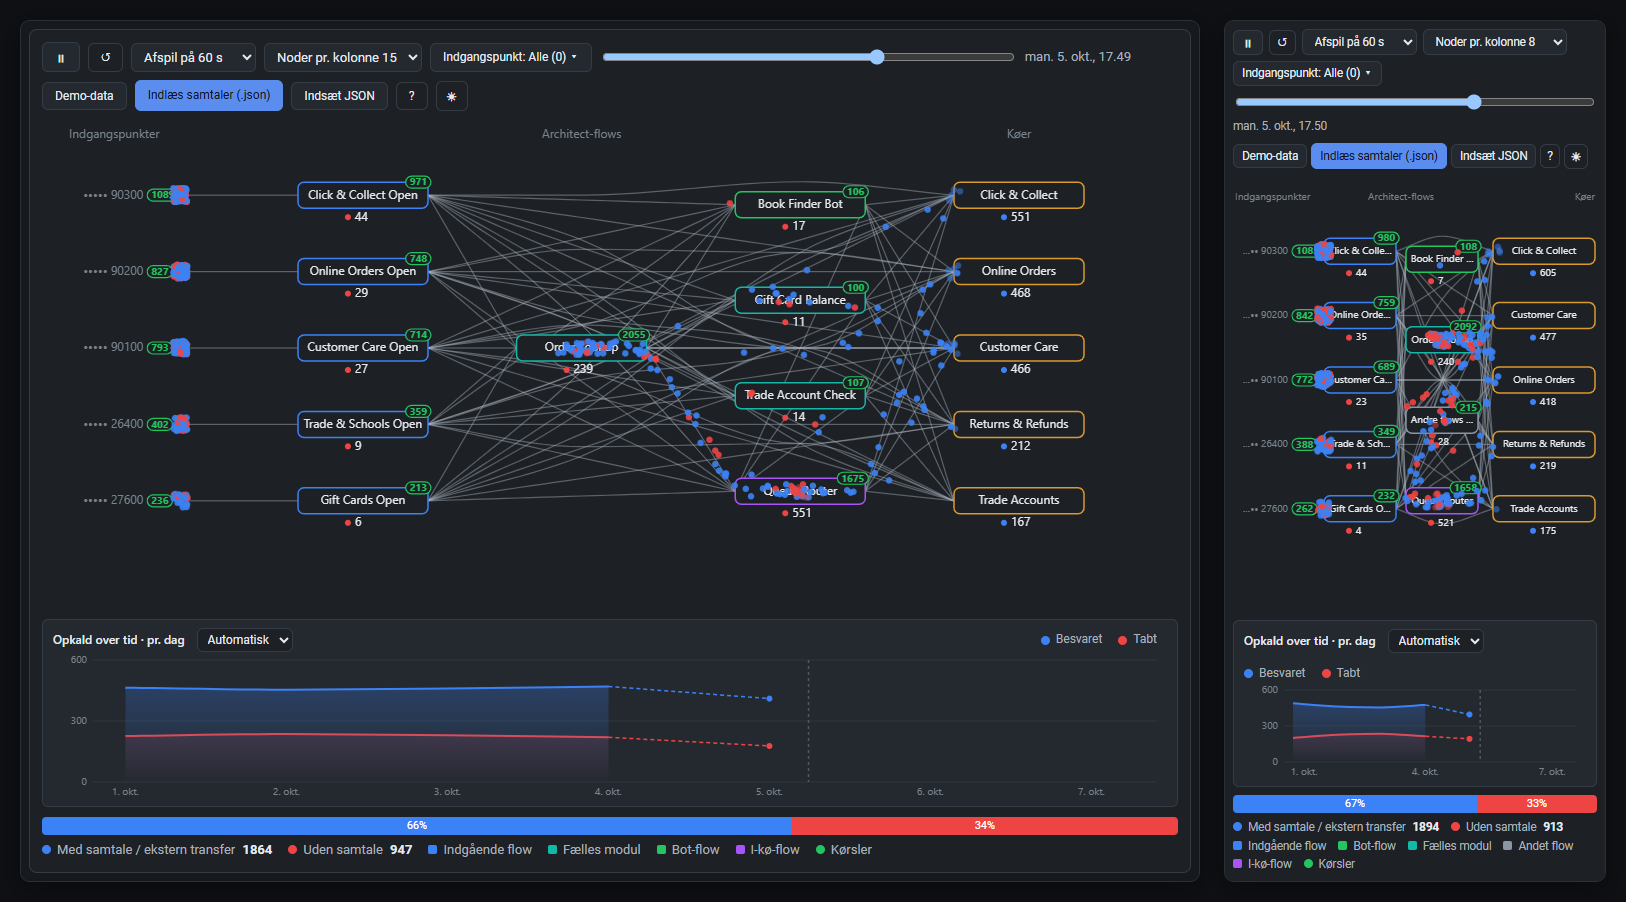
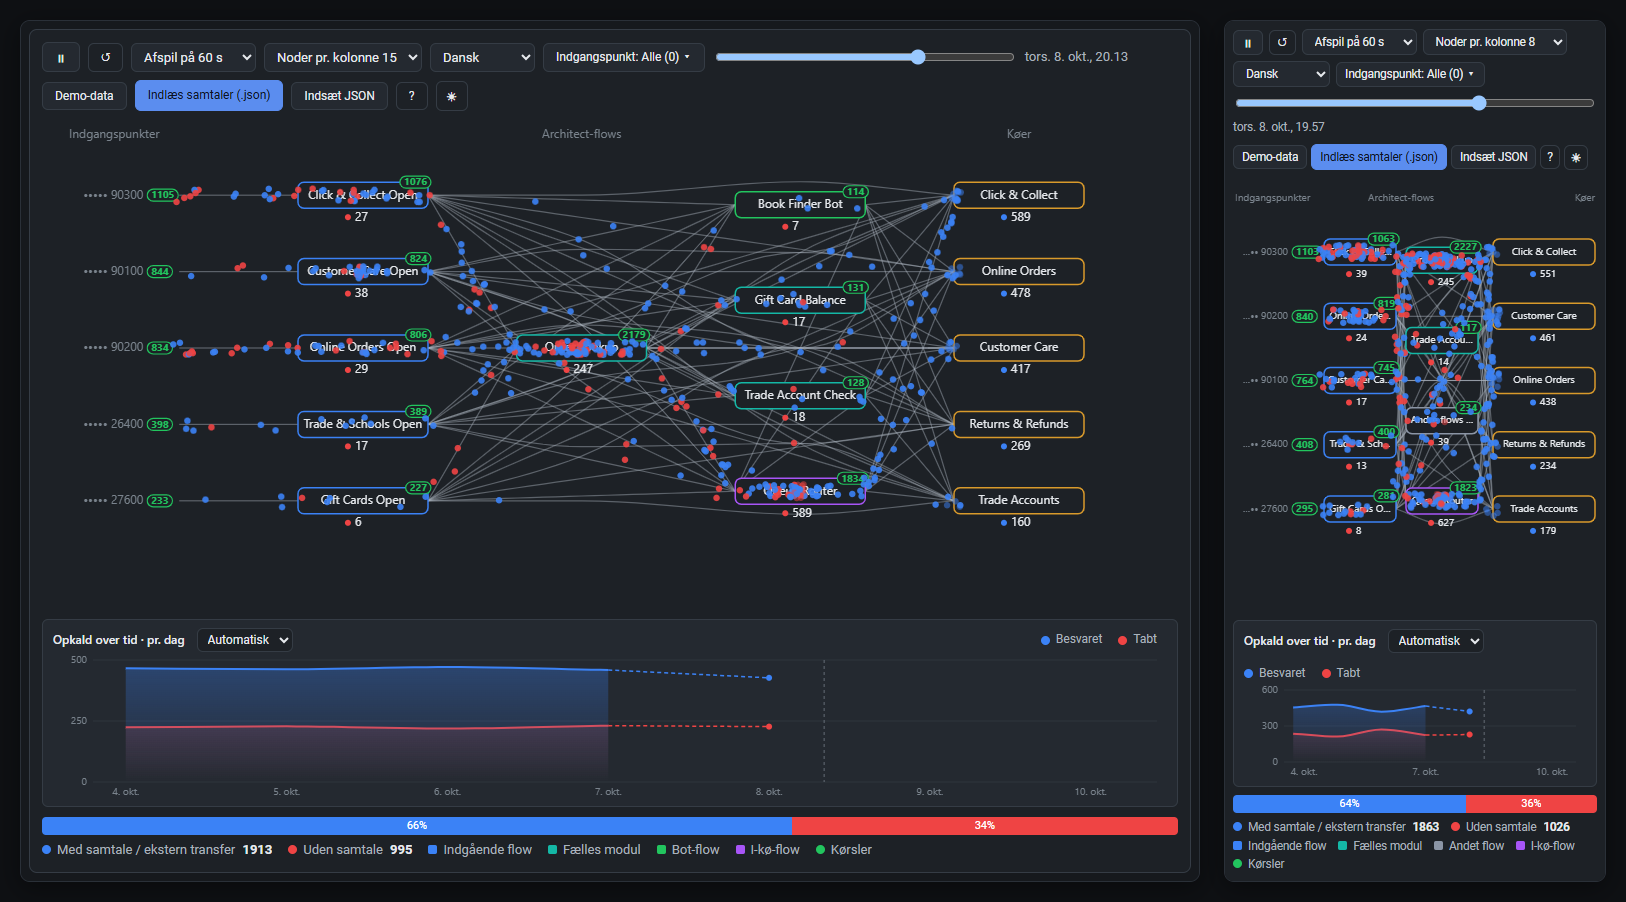
Language picker in the toolbar; live data when run locally
- Language picker (da/en/fr/es/nl) relabels in place and is remembered per browser
- Setup page has a form for client ID and region, plus a link to demo data
- npm start prints the demo URL, the live URL (CLIENT_ID/REGION) and the redirect URI
- Entry point button now follows a language switch
- README: local live data, screenshots with the language picker

diff --git a/js/i18n.js b/js/i18n.js
@@ -83,6 +83,7 @@ export const I18N = {
   "trafficHelpTitle": "Sådan henter du data fra Genesys",
   "trafficThemeDark": "Skift til mørkt tema",
   "trafficThemeLight": "Skift til lyst tema",
+  "trafficLang": "Sprog",
   "trafficHelpBody": "<h4>Sådan henter du samtaledata fra Genesys Cloud</h4>\nBrug API'et <b>Analytics &rarr; Conversation details (async job)</b>. Nemmest er <a href=\"https://developer.genesys.cloud/devapps/api-explorer#post-api-v2-analytics-conversations-details-jobs\" target=\"_blank\" rel=\"noopener\">API Explorer</a> på <a href=\"https://developer.genesys.cloud/\" target=\"_blank\" rel=\"noopener\">developer.genesys.cloud</a> (log ind og vælg din region). Kræver rettigheden <code>analytics:conversationDetail:view</code>.\n<ol>\n<li><code>POST /api/v2/analytics/conversations/details/jobs</code> med en body som:\n<pre>{\n  \"interval\": \"2026-10-01T00:00:00.000Z/2026-10-08T00:00:00.000Z\",\n  \"segmentFilters\": [{ \"type\": \"and\", \"predicates\": [\n    { \"type\": \"dimension\", \"dimension\": \"mediaType\", \"value\": \"voice\" },\n    { \"type\": \"dimension\", \"dimension\": \"originatingDirection\", \"value\": \"inbound\" } ] }]\n}</pre>Intervallet må højst være 31 dage. Kun indgående voice-opkald tages med. Svaret indeholder et <code>jobId</code>.</li>\n<li><code>GET /api/v2/analytics/conversations/details/jobs/{jobId}</code> indtil <code>state</code> er <code>FULFILLED</code>.</li>\n<li><code>GET /api/v2/analytics/conversations/details/jobs/{jobId}/results?pageSize=1000</code> &mdash; gentag med <code>&amp;cursor=&hellip;</code>, så længe der returneres en cursor.</li>\n<li>Kopiér svaret fra API Explorer: gem det som en <code>.json</code>-fil og indlæs den med <b>Indlæs samtaler</b>, eller brug <b>Indsæt JSON</b>. Har du flere sider, behøver du ikke samle dem selv: vælg eller slip alle filerne på én gang, eller indsæt dem én ad gangen med <b>Tilføj side</b>. Dubletter fjernes automatisk.</li>\n</ol>\nTip: <b>Hent live</b> gør alt dette automatisk, når du har logget ind med Genesys (OAuth PKCE).",
   "trafficNoConvs": "Ingen afsluttede samtaler i perioden (Genesys har nogle minutters forsinkelse på nylige samtaler)",
   "trafficP_hour": "Seneste time",
@@ -193,6 +194,7 @@ export const I18N = {
   "trafficHelpTitle": "How to get data from Genesys",
   "trafficThemeDark": "Switch to dark theme",
   "trafficThemeLight": "Switch to light theme",
+  "trafficLang": "Language",
   "trafficHelpBody": "<h4>How to get conversation data from Genesys Cloud</h4>\nUse the <b>Analytics &rarr; Conversation details (async job)</b> API. Easiest is the <a href=\"https://developer.genesys.cloud/devapps/api-explorer#post-api-v2-analytics-conversations-details-jobs\" target=\"_blank\" rel=\"noopener\">API Explorer</a> on <a href=\"https://developer.genesys.cloud/\" target=\"_blank\" rel=\"noopener\">developer.genesys.cloud</a> (sign in, pick your region). Requires the permission <code>analytics:conversationDetail:view</code>.\n<ol>\n<li><code>POST /api/v2/analytics/conversations/details/jobs</code> with a body like:\n<pre>{\n  \"interval\": \"2026-10-01T00:00:00.000Z/2026-10-08T00:00:00.000Z\",\n  \"segmentFilters\": [{ \"type\": \"and\", \"predicates\": [\n    { \"type\": \"dimension\", \"dimension\": \"mediaType\", \"value\": \"voice\" },\n    { \"type\": \"dimension\", \"dimension\": \"originatingDirection\", \"value\": \"inbound\" } ] }]\n}</pre>The interval can be at most 31 days. Only inbound voice calls are included. The response contains a <code>jobId</code>.</li>\n<li><code>GET /api/v2/analytics/conversations/details/jobs/{jobId}</code> until <code>state</code> is <code>FULFILLED</code>.</li>\n<li><code>GET /api/v2/analytics/conversations/details/jobs/{jobId}/results?pageSize=1000</code> &mdash; repeat with <code>&amp;cursor=&hellip;</code> while a cursor is returned.</li>\n<li>Copy the response from API Explorer: either save it as a <code>.json</code> file and load it with <b>Load calls</b>, or use <b>Paste JSON</b>. With several pages you do not need to merge anything yourself: select or drop all the files at once, or paste them one by one with <b>Add page</b>. Duplicates are removed automatically.</li>\n</ol>\nTip: <b>Live data</b> does all of this automatically after signing in with Genesys (OAuth PKCE).",
   "trafficNoConvs": "No completed conversations in the period (Genesys lags a few minutes on recent conversations)",
   "trafficP_hour": "Last hour",
@@ -303,6 +305,7 @@ export const I18N = {
   "trafficHelpTitle": "Comment obtenir les données de Genesys",
   "trafficThemeDark": "Passer au thème sombre",
   "trafficThemeLight": "Passer au thème clair",
+  "trafficLang": "Langue",
   "trafficNoConvs": "Aucune conversation terminée sur la période (Genesys a quelques minutes de retard)",
   "trafficP_hour": "Dernière heure",
   "trafficP_yesterday": "Hier",
@@ -412,6 +415,7 @@ export const I18N = {
   "trafficHelpTitle": "Cómo obtener datos de Genesys",
   "trafficThemeDark": "Cambiar al tema oscuro",
   "trafficThemeLight": "Cambiar al tema claro",
+  "trafficLang": "Idioma",
   "trafficNoConvs": "No hay conversaciones finalizadas en el periodo (Genesys tiene unos minutos de retraso)",
   "trafficP_hour": "Última hora",
   "trafficP_yesterday": "Ayer",
@@ -521,6 +525,7 @@ export const I18N = {
   "trafficHelpTitle": "Gegevens ophalen uit Genesys",
   "trafficThemeDark": "Overschakelen naar donker thema",
   "trafficThemeLight": "Overschakelen naar licht thema",
+  "trafficLang": "Taal",
   "trafficNoConvs": "Geen afgeronde gesprekken in de periode (Genesys loopt enkele minuten achter)",
   "trafficP_hour": "Laatste uur",
   "trafficP_yesterday": "Gisteren",

diff --git a/js/main.js b/js/main.js
@@ -12,6 +12,10 @@ const W = {
     setupMissing: 'Mangler',
     setupRedirect: 'OAuth-klienten (Code Authorization / PKCE) skal have denne redirect URI:',
     setupPerms: 'Brugeren skal have rettighederne <code>analytics:conversationDetail:view</code> og <code>routing:queue:view</code>.',
+    setupTry: 'Eller åbn den direkte her (fx lokalt med npm start):',
+    setupRegion: 'Region',
+    setupOpen: 'Åbn med live data',
+    setupDemo: 'Vis demo-data',
     retry: 'Prøv igen',
   },
   en: {
@@ -21,21 +25,34 @@ const W = {
     setupMissing: 'Missing',
     setupRedirect: 'The OAuth client (Code Authorization / PKCE) needs this redirect URI:',
     setupPerms: 'Users need the permissions <code>analytics:conversationDetail:view</code> and <code>routing:queue:view</code>.',
+    setupTry: 'Or open it directly here (e.g. locally with npm start):',
+    setupRegion: 'Region',
+    setupOpen: 'Open with live data',
+    setupDemo: 'Show demo data',
     retry: 'Try again',
   },
 };
 
 const ctx = gc.readContext();
-const lang = (() => { const l = (ctx.lang || navigator.language || 'en').slice(0, 2).toLowerCase(); return I18N[l] ? l : 'en'; })();
+const store = { get: k => { try { return localStorage.getItem(k); } catch { return null; } },
+                set: (k, v) => { try { localStorage.setItem(k, v); } catch { /* ignore */ } } };
+
+// The language picked in the toolbar wins, then gcLangTag / ?lang, then the browser language.
+const LANGS = Object.keys(I18N);
+let lang = [store.get('tw-lang'), ctx.lang, navigator.language, 'en'].map(l => (l || '').slice(0, 2).toLowerCase()).find(l => I18N[l]);
 const t = key => W[lang]?.[key] ?? I18N[lang]?.[key] ?? W.en[key] ?? I18N.en[key] ?? key;
+const setLang = l => { lang = l; document.documentElement.lang = l; store.set('tw-lang', l); };
+const langOpts = () => ({ langs: LANGS, lang, onLang: setLang });
 
 document.documentElement.lang = lang;
 // The theme picked with the toolbar button wins, then ?theme, then the OS setting.
-const savedTheme = (() => { try { return localStorage.getItem('tw-theme'); } catch { return null; } })();
-const theme = [savedTheme, ctx.theme].find(v => v === 'dark' || v === 'light');
+const theme = [store.get('tw-theme'), ctx.theme].find(v => v === 'dark' || v === 'light');
 if (theme) document.documentElement.dataset.theme = theme;
 
 const root = document.getElementById('root');
+const REGIONS = ['mypurecloud.com', 'usw2.pure.cloud', 'cac1.pure.cloud', 'sae1.pure.cloud', 'mypurecloud.ie',
+  'euw2.pure.cloud', 'mypurecloud.de', 'euc2.pure.cloud', 'mec1.pure.cloud', 'aps1.pure.cloud', 'mypurecloud.jp', 'apne2.pure.cloud',
+  'apne3.pure.cloud', 'mypurecloud.com.au'];
 const esc = v => String(v).replace(/[&<>"]/g, c => ({ '&': '&amp;', '<': '&lt;', '>': '&gt;', '"': '&quot;' }[c]));
 
 function toast(msg, type) {
@@ -56,13 +73,22 @@ function showSetup() {
     <p>${esc(t('setupBody'))}</p><pre>${esc(url)}</pre>
     <p>${esc(t('setupMissing'))}: <b>${ctx.problems.map(esc).join(', ')}</b></p>
     <p>${esc(t('setupRedirect'))}</p><pre>${esc(gc.redirectUri())}</pre>
-    <p>${t('setupPerms')}</p>`);
+    <p>${t('setupPerms')}</p>
+    <p>${esc(t('setupTry'))}</p>
+    <form class="setup-form" method="get">
+      <label>Client ID <input name="clientId" required pattern="[0-9a-fA-F-]{36}" placeholder="00000000-0000-0000-0000-000000000000" value="${esc(ctx.clientId)}" /></label>
+      <label>${esc(t('setupRegion'))} <input name="region" required list="regions" placeholder="mypurecloud.de" value="${esc(ctx.region)}" /></label>
+      <datalist id="regions">${REGIONS.map(r => `<option value="${r}"></option>`).join('')}</datalist>
+      <input type="hidden" name="lang" value="${lang}" />
+      <button class="btn primary">${esc(t('setupOpen'))}</button>
+      <a class="btn" href="?demo&lang=${lang}">${esc(t('setupDemo'))}</a>
+    </form>`);
 }
 
 async function boot() {
   // ?demo shows the widget with demo data and no sign-in (for trying it out outside Genesys).
   if (new URLSearchParams(location.search).has('demo')) {
-    initTraffic(root, t, toast);
+    initTraffic(root, t, toast, langOpts());
     root.querySelector('[data-tr="demo"]').click();
     return;
   }
@@ -78,7 +104,7 @@ async function boot() {
     return;
   }
   if (!gc.getSession() && !message) message = t('trafficLogin');
-  initTraffic(root, t, toast, { live: true, autoFetch: true, message });
+  initTraffic(root, t, toast, { live: true, autoFetch: true, message, ...langOpts() });
 }
 
 boot().catch(e => notice(`<p>${esc(t('trafficLiveFailed'))}: ${esc(e.message)}</p><button class="btn primary" onclick="location.reload()">${esc(t('retry'))}</button>`));

diff --git a/js/traffic.js b/js/traffic.js
@@ -266,6 +266,8 @@ function pathOf(model, c) {
 // ── View ─────────────────────────────────────────────────────────────────────
 import * as gc from './genesys-auth.js';
 
+const LANG_NAMES = { da: 'Dansk', en: 'English', fr: 'Français', es: 'Español', nl: 'Nederlands' };
+
 export function initTraffic(root, i18n, toast, opts = {}) {
   root.innerHTML = `
     <div class="tr-bar"><div class="tr-row">
@@ -280,6 +282,9 @@ export function initTraffic(root, i18n, toast, opts = {}) {
       </select>
       <select data-tr="nodes" title="${i18n('trafficNodes')}">
         ${[8, 15, 25, 40].map(n => `<option value="${n}" ${n === 15 ? 'selected' : ''}>${i18n('trafficNodes')} ${n}</option>`).join('')}
+      </select>
+      <select data-tr="lang" title="${i18n('trafficLang')}" aria-label="${i18n('trafficLang')}" ${opts.langs ? '' : 'hidden'}>
+        ${(opts.langs || []).map(l => `<option value="${l}" ${l === opts.lang ? 'selected' : ''}>${LANG_NAMES[l] || l}</option>`).join('')}
       </select>
       <label class="tr-chk" data-tr="flowWrap" hidden><input type="checkbox" data-tr="flowOnly"><span data-tr="flowOnlyTxt"></span></label>
       <div class="tr-ms" data-tr="didWrap" hidden>
@@ -858,6 +863,9 @@ export function initTraffic(root, i18n, toast, opts = {}) {
   matchMedia('(prefers-color-scheme: dark)').addEventListener('change', themeBtn);
   themeBtn();
 
+  // Language switch: main.js changes the language behind i18n, then every text is set again in place.
+  q('lang').addEventListener('change', e => { opts.onLang?.(e.target.value); relabel(); themeBtn(); });
+
   q('play').addEventListener('click', () => { if (!model) return; if (simT >= t1) seek(0); play(!playing); });
   q('restart').addEventListener('click', () => { if (model) { seek(0); play(true); } });
   q('seek').addEventListener('input', e => { seek(+e.target.value / 1000); });
@@ -1143,13 +1151,13 @@ export function initTraffic(root, i18n, toast, opts = {}) {
     setOpts('period', v => i18n('trafficP_' + v));
     q('speed').title = i18n('trafficSpeed'); q('nodes').title = i18n('trafficNodes'); q('period').title = i18n('trafficPeriod');
     q('live').textContent = i18n('trafficLive'); q('demo').textContent = i18n('trafficDemo');
-    q('help').title = i18n('trafficHelpTitle');
+    q('help').title = i18n('trafficHelpTitle'); q('lang').title = i18n('trafficLang'); q('lang').setAttribute('aria-label', i18n('trafficLang'));
     root.querySelector('.tr-upload').firstChild.textContent = i18n('trafficLoad');
     q('helpPanel').innerHTML = i18n('trafficHelpBody');
     q('paste').textContent = i18n('trafficPaste'); fillBucketSelect();
     q('flowOnlyTxt').textContent = i18n('trafficFlowOnly');
     q('didSearch').placeholder = i18n('trafficSearch'); q('didAll').textContent = i18n('trafficDidSelectAll'); q('didNone').textContent = i18n('trafficDidClear');
-    if (didCounts.length) { updateDidLabel(); renderDidList(); }
+    updateDidLabel(); if (didCounts.length) renderDidList();
     q('pasteAdd').textContent = i18n('trafficPasteAdd'); q('pasteClear').textContent = i18n('trafficPasteClear');
     q('pastePanel').firstElementChild.textContent = i18n('trafficPasteHint');
     root.querySelector('.tr-empty').textContent = i18n('trafficNoData');

diff --git a/serve.js b/serve.js
@@ -19,4 +19,12 @@ createServer(async (req, res) => {
     res.writeHead(200, { 'Content-Type': TYPES[extname(path)] || 'application/octet-stream', 'Cache-Control': 'no-cache' });
     res.end(body);
   } catch { res.writeHead(404); res.end('Not found'); }
-}).listen(PORT, () => console.log(`Traffic widget on http://localhost:${PORT}/?demo`));
+}).listen(PORT, () => {
+  const base = `http://localhost:${PORT}/`;
+  console.log(`Traffic widget, demo data:  ${base}?demo`);
+  // Live data: CLIENT_ID and REGION give a ready-made URL. The OAuth client needs the redirect URI below.
+  const { CLIENT_ID, REGION } = process.env;
+  const live = CLIENT_ID && REGION ? `${base}?clientId=${encodeURIComponent(CLIENT_ID)}&region=${encodeURIComponent(REGION)}` : base;
+  console.log(`Traffic widget, live data:  ${live}${CLIENT_ID && REGION ? '' : '  (enter client ID and region there, or set CLIENT_ID and REGION)'}`);
+  console.log(`OAuth redirect URI:         ${base}`);
+});

diff --git a/css/base.css b/css/base.css
@@ -55,6 +55,10 @@ button:disabled { opacity: .55; cursor: default; }
 .notice code, .notice pre { font-family: ui-monospace, SFMono-Regular, Consolas, monospace; font-size: 12px; }
 .notice pre { background: var(--panel); border: 1px solid var(--border); border-radius: 6px; padding: 8px 10px; white-space: pre-wrap; word-break: break-all; }
 .notice ul { padding-left: 18px; }
+.setup-form { display: flex; flex-wrap: wrap; gap: 8px; align-items: end; }
+.setup-form label { display: flex; flex-direction: column; gap: 3px; font-size: 12px; color: var(--ink-dim); flex: 1 1 200px; }
+.setup-form input { background: var(--panel); color: var(--ink); border: 1px solid var(--border); border-radius: 6px; padding: 6px 8px; font: inherit; font-size: 12px; }
+.setup-form a.btn { text-decoration: none; }
 
 /* Legend wraps whole items instead of breaking the words inside them */
 .tr-legend { flex-wrap: wrap; gap: 4px 16px !important; }

diff --git a/README.md b/README.md
@@ -57,7 +57,7 @@ Each org needs its own OAuth client and integration. The code and the hosting ar
 |---|---|
 | `clientId` | OAuth client ID in the current org (required) |
 | `gcHostOrigin` / `pcEnvironment` / `region` | Sets the region. Only known Genesys domains are accepted |
-| `gcLangTag` / `lang` | Language: da, en, fr, es or nl (otherwise English) |
+| `gcLangTag` / `lang` | Language: da, en, fr, es or nl (otherwise the browser language, or English). The language picker in the toolbar overrides it and is remembered per browser |
 | `theme` | `light` or `dark` (otherwise follows the operating system). The ☾/☀ button in the toolbar overrides it and is remembered per browser |
 | `demo` | Shows demo data without sign-in, for trying it out outside Genesys |
 
@@ -67,7 +67,10 @@ Each org needs its own OAuth client and integration. The code and the hosting ar
 npm start
 ```
 
-Open `http://localhost:8080/?demo`. Sign-in can only really be tested from an HTTPS host through the integration. To test outside Genesys, open `https://skndkprivat.github.io/genesys-traffic-widget/?clientId=…&region=mypurecloud.de` directly in the browser.
+- **Demo data:** open `http://localhost:8080/?demo`.
+- **Live data:** open `http://localhost:8080/` and enter the OAuth client ID and region in the form, or start with `CLIENT_ID=… REGION=mypurecloud.de npm start` to get a ready-made URL. The OAuth client needs `http://localhost:8080/` as a redirect URI as well.
+
+`PORT=8090 npm start` uses another port; the redirect URI then changes with it. Embedding in Genesys Cloud itself still needs an HTTPS host, e.g. GitHub Pages.
 
 ```bash
 npm test

diff --git a/README.da.md b/README.da.md
@@ -57,7 +57,7 @@ Hver org skal have sin egen OAuth-klient og integration. Koden og hostingen er d
 |---|---|
 | `clientId` | OAuth client ID i den aktuelle org (påkrævet) |
 | `gcHostOrigin` / `pcEnvironment` / `region` | Bestemmer regionen. Kun kendte Genesys-domæner accepteres |
-| `gcLangTag` / `lang` | Sprog: da, en, fr, es eller nl (ellers engelsk) |
+| `gcLangTag` / `lang` | Sprog: da, en, fr, es eller nl (ellers browserens sprog eller engelsk). Sprogvælgeren i værktøjslinjen overstyrer det og huskes pr. browser |
 | `theme` | `light` eller `dark` (ellers følges styresystemet). Knappen ☾/☀ i værktøjslinjen overstyrer det og huskes pr. browser |
 | `demo` | Viser demodata uden login, til afprøvning uden for Genesys |
 
@@ -67,7 +67,10 @@ Hver org skal have sin egen OAuth-klient og integration. Koden og hostingen er d
 npm start
 ```
 
-Åbn `http://localhost:8080/?demo`. Login kan kun testes rigtigt fra en HTTPS-host via integrationen. Vil du teste uden for Genesys, kan du åbne `https://skndkprivat.github.io/genesys-traffic-widget/?clientId=…&region=mypurecloud.de` direkte i browseren.
+- **Demodata:** åbn `http://localhost:8080/?demo`.
+- **Live data:** åbn `http://localhost:8080/` og skriv OAuth client ID og region i formularen, eller start med `CLIENT_ID=… REGION=mypurecloud.de npm start` for at få en færdig URL. OAuth-klienten skal også have `http://localhost:8080/` som redirect URI.
+
+`PORT=8090 npm start` bruger en anden port, og så følger redirect URI'en med. Indlejring i selve Genesys Cloud kræver stadig en HTTPS-host, fx GitHub Pages.
 
 ```bash
 npm test
